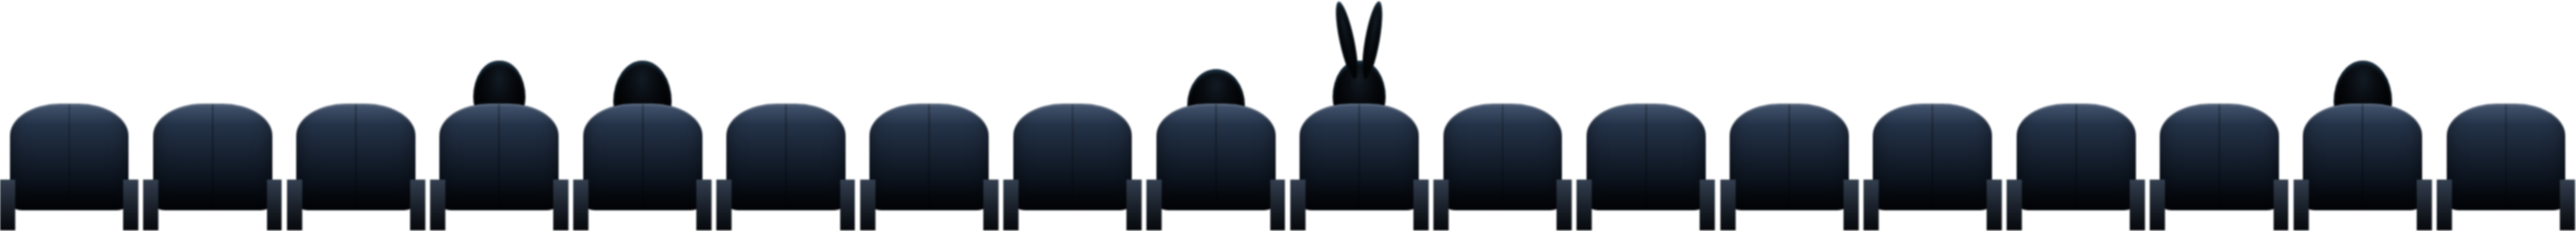
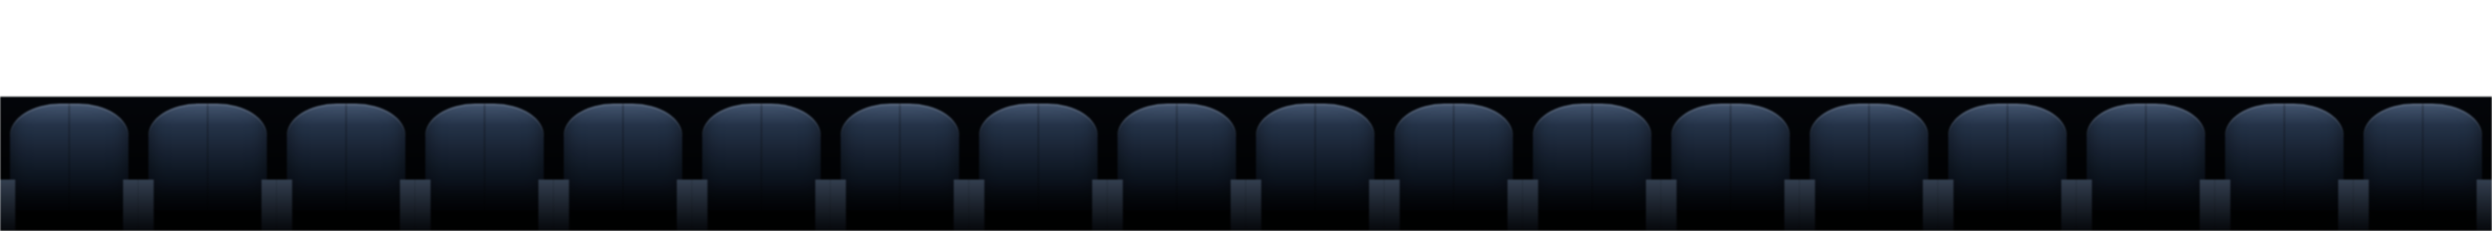
Refine Seat Lab aisle walk: solid rows, max three, gentler motion
Removes the audience, fills gaps so no screen shows through a row,
limits the walk to three visible rows that slide off instead of fading,
eases scroll and pointer motion, and adds Walk/Look tuning sliders.

Claude-Session: https://claude.ai/code/session_01GDgtUCjcDkxRjskmjmJ3ca

Changed region(s): [[0.0, 0.0299, 1.0, 1.0]]

diff --git a/site/lab/seats/index.html b/site/lab/seats/index.html
@@ -106,6 +106,9 @@ permalink: /lab/seats/
   .tabs button[aria-pressed="true"] { background: var(--paper); color: var(--ink); border-color: var(--paper); }
   .toggle[aria-pressed="true"] { color: var(--accent); border-color: color-mix(in oklch, var(--accent) 60%, var(--rule)); }
   .tabs button:focus-visible, .toggle:focus-visible { outline: 2px solid var(--accent); outline-offset: 2px; }
+  .slider { display: flex; align-items: center; gap: 8px; color: var(--muted); text-transform: uppercase; white-space: nowrap; }
+  .slider input { width: 88px; accent-color: var(--accent); }
+  .slider output { min-width: 5.2em; font-variant-numeric: tabular-nums; color: var(--paper); text-transform: none; }
   .readout { color: var(--muted); min-width: 4.5em; text-align: right; font-variant-numeric: tabular-nums; white-space: nowrap; }
 
   /* ---------- room lights (version B) ---------- */
@@ -180,10 +183,19 @@ permalink: /lab/seats/
     top: 0;
     display: flex;
     align-items: flex-end;
-    gap: calc(var(--sw) * 0.035);
+    gap: 0;
     font-size: calc(var(--sw) / 10);
     transform-origin: 50% 100%;
-    will-change: transform, opacity;
+    will-change: transform;
+  }
+  /* Solid backing under the seat bases and aisles, so the screen never shows
+     through a row. */
+  .row::before {
+    content: "";
+    position: absolute;
+    inset: 42% 0 0 0;
+    z-index: -1;
+    background: linear-gradient(180deg, oklch(12% 0.012 258), oklch(6% 0.005 250));
   }
   .seat { position: relative; display: block; flex: none; width: var(--sw); height: calc(var(--sw) * 0.92); isolation: isolate; }
   .seat::before {
@@ -209,33 +221,6 @@ permalink: /lab/seats/
       linear-gradient(180deg, oklch(38% 0.035 258), oklch(14% 0.01 258)) left bottom / 11% 100% no-repeat,
       linear-gradient(180deg, oklch(38% 0.035 258), oklch(14% 0.01 258)) right bottom / 11% 100% no-repeat;
   }
-  .head {
-    position: absolute;
-    z-index: 0;
-    left: 31%;
-    top: -34%;
-    width: 38%;
-    height: 52%;
-    border-radius: 48% 48% 42% 42% / 55% 55% 45% 45%;
-    background: radial-gradient(ellipse at 50% 28%, oklch(22% 0.02 250), oklch(8% 0.005 250) 72%);
-    box-shadow: inset 0 0.18em 0.25em oklch(70% 0.1 240 / 0.3);
-  }
-  .seat:nth-child(3n) .head { top: -27%; height: 46%; left: 33%; width: 35%; }
-  .seat:nth-child(4n+1) .head { border-radius: 50% 50% 38% 38% / 62% 62% 38% 38%; width: 42%; left: 29%; }
-  /* Mr. Rabbit has a ticket too. */
-  .head.rabbit::before, .head.rabbit::after {
-    content: "";
-    position: absolute;
-    bottom: 70%;
-    width: 28%;
-    height: 120%;
-    border-radius: 50%;
-    background: inherit;
-    box-shadow: inherit;
-  }
-  .head.rabbit::before { left: 12%; transform: rotate(-12deg); }
-  .head.rabbit::after { right: 12%; transform: rotate(10deg); }
-  .no-heads .head { display: none; }
   .aisle { position: relative; flex: none; width: calc(var(--sw) * 0.6); height: calc(var(--sw) * 0.92); }
   .aisle i {
     position: absolute;
@@ -300,8 +285,8 @@ permalink: /lab/seats/
     <button type="button" id="tab-d" data-v="d" aria-pressed="false">D · Stack</button>
     <button type="button" id="tab-e" data-v="e" aria-pressed="false">E · Image rows</button>
   </div>
-  <button type="button" class="toggle" id="t-heads" aria-pressed="true">Audience</button>
-  <button type="button" class="toggle" id="t-look" aria-pressed="true">Look around</button>
+  <label class="slider" for="s-walk">Walk <input type="range" id="s-walk" min="0.5" max="3" step="0.25" value="1.5"><output id="o-walk">1.5 rows</output></label>
+  <label class="slider" for="s-look">Look <input type="range" id="s-look" min="0" max="100" step="5" value="20"><output id="o-look">20%</output></label>
   <button type="button" class="toggle" id="t-motion" aria-pressed="true">Motion</button>
   <span class="readout" id="readout" aria-live="off">0%</span>
 </header>
@@ -391,9 +376,9 @@ permalink: /lab/seats/
   var NOTES = {
     a: {
       title: 'A · Aisle walk',
-      desc: 'Eleven rows of CSS seats placed in real perspective. The whole page is one walk: as you scroll, the camera moves forward and down the raked floor. Rows you pass grow, slide under the bottom edge and fade out, and new rows keep appearing in front. Orange step lights mark the aisles.',
-      pros: ['The strongest feeling of moving through the auditorium.', 'Plain transforms and opacity, so it runs in every browser, including Safari and Firefox.', 'Rows are drawn in CSS: no image to load, sharp at any size, easy to recolour per edition.'],
-      cons: ['Distant rows always cover a strip at the bottom of the screen; needs tuning so no text sits there.', 'About 400 small elements; fine on laptops, worth a check on old phones.', 'Page length changes the walking speed.'],
+      desc: 'Solid rows of empty seats in real perspective, never more than three at a time. As you scroll, you walk slowly down the raked floor: the nearest row grows and slides out under the bottom edge, and the next row rises into place from behind. Movement is eased, so the room glides after your scroll instead of snapping. Orange step lights mark the aisles. Tune it with Walk (rows travelled over the whole page) and Look (how much the room follows the pointer).',
+      pros: ['The strongest feeling of moving through the auditorium, now calm enough to read over.', 'Transforms only, so it runs in every browser, including Safari and Firefox.', 'Rows are drawn in CSS: no image to load, sharp at any size, easy to recolour per edition.'],
+      cons: ['Page length changes the walking speed; long pages walk slower at the same setting.', 'Rows cover roughly the bottom fifth of the viewport, so the lowest text of each screen sits behind them until scrolled.', 'About 200 small elements; fine on laptops, worth a check on old phones.'],
       effort: 'Medium: one JS module plus CSS, replaces cinema-seats.png.',
       best: 'Homepage and festival edition pages.'
     },
@@ -433,8 +418,8 @@ permalink: /lab/seats/
 
   var V = 'a';
   var W = 0, H = 0, barH = 52, bottomPx = 100, sw = 100;
-  var mx = 0;
-  var look = true, heads = true;
+  var mx = 0, mxT = 0, ps = 0;
+  var walkRows = 1.5, lookK = 0.2;
   var reduce = window.matchMedia('(prefers-reduced-motion: reduce)');
   var motion = !reduce.matches;
   var rows = [], stack = [], imgs = [];
@@ -442,16 +427,13 @@ permalink: /lab/seats/
 
   function clamp(v, a, b) { return Math.min(b, Math.max(a, v)); }
   function ease(t) { return t < 0.5 ? 2 * t * t : 1 - Math.pow(-2 * t + 2, 2) / 2; }
-  function occupied(i, j) { return ((i * 131 + j * 71) ^ (i * j * 17)) % 11 < 3; }
-
-  function buildRow(n, aisles, i, rabbitAt) {
+  function buildRow(n, aisles) {
     var el = document.createElement('div');
     el.className = 'row';
     var html = '';
     for (var j = 0; j < n; j++) {
       if (aisles.indexOf(j) !== -1) html += '<span class="aisle"><i></i></span>';
-      var occ = occupied(i, j) || j === rabbitAt;
-      html += '<span class="seat">' + (occ ? '<i class="head' + (j === rabbitAt ? ' rabbit' : '') + '"></i>' : '') + '</span>';
+      html += '<span class="seat"></span>';
     }
     el.innerHTML = html;
     return el;
@@ -477,8 +459,8 @@ permalink: /lab/seats/
 
     rowsWrap.textContent = '';
     rows = [];
-    for (var i = 0; i < 11; i++) {
-      var el = buildRow(34, [10, 24], i, i === 2 ? 15 : -1);
+    for (var i = 0; i < 8; i++) {
+      var el = buildRow(34, [10, 24]);
       rowsWrap.appendChild(el);
       rows.push({ el: el });
     }
@@ -486,8 +468,8 @@ permalink: /lab/seats/
 
     stackWrap.textContent = '';
     stack = [];
-    [[18, 9], [13, -1], [9, 4]].forEach(function (cfg, k) {
-      var el = buildRow(cfg[0], [], k + 20, cfg[1]);
+    [18, 13, 9].forEach(function (n) {
+      var el = buildRow(n, []);
       stackWrap.appendChild(el);
       stack.push({ el: el });
     });
@@ -516,17 +498,19 @@ permalink: /lab/seats/
 
   // Rows sit on a raked floor. d is the distance (in rows) ahead of the viewer;
   // a simple pinhole projection turns it into scale and screen position.
+  // At most three rows are on screen. A passing row slides fully below the
+  // bottom edge (no fading), and the third row rises out from behind the
+  // second one instead of popping in.
   function walk(k, lit) {
     var P = 1.2 * H, D = 0.8 * H, drop = 0.133 * H, eye = 0.5 * H, hz = 0.6 * H;
     rows.forEach(function (r, i) {
       var d = i - k;
-      if (d < -0.6 || d > 5.5) { place(r, 0, 0, 1, 0, 1, 0); return; }
+      if (d <= -0.95 || d >= 3) { place(r, 0, 0, 1, 0, 1, 0); return; }
       var s = P / (P + D * d);
-      var y = hz + (eye + drop * d) * s;
-      var op = d < 0 ? (d + 0.6) / 0.6 : (d > 4.5 ? 5.5 - d : 1);
-      var br = (0.48 + 0.11 * Math.min(d, 5)) * lit;
-      var cx = W / 2 - mx * 0.07 * W * s;
-      place(r, cx, y, s, op, br, 1000 - Math.round(d * 100));
+      var y = hz + (eye + drop * d) * s + clamp(d - 2, 0, 1) * r.h * s;
+      var br = (0.5 + 0.1 * Math.max(0, d)) * lit;
+      var cx = W / 2 - mx * 0.07 * lookK * W * s;
+      place(r, cx, y, s, 1, br, 1000 - Math.round(d * 100));
     });
   }
 
@@ -542,11 +526,21 @@ permalink: /lab/seats/
     ticking = false;
     var y = window.scrollY;
     var max = Math.max(1, doc.scrollHeight - H);
-    var p = motion ? clamp(y / max, 0, 1) : 0;
+    var target = motion ? clamp(y / max, 0, 1) : 0;
     readout.textContent = Math.round(clamp(y / max, 0, 1) * 100) + '%';
 
+    // Ease toward the scroll and pointer targets so the room glides.
+    var targetMx = motion ? mxT * lookK : 0;
+    ps += (target - ps) * 0.09;
+    mx += (targetMx - mx) * 0.06;
+    if (Math.abs(target - ps) < 0.0004) ps = target;
+    if (Math.abs(targetMx - mx) < 0.0005) mx = targetMx;
+    if (ps !== target || mx !== targetMx) request();
+    var p = ps;
+    doc.style.setProperty('--mx', mx.toFixed(4));
+
     if (V === 'a') {
-      walk(p * 4, 1);
+      walk(p * walkRows, 1);
     } else if (V === 'b') {
       var I = 0.9 * H;
       var q = motion ? clamp(y / I, 0, 1) : 1;
@@ -565,21 +559,21 @@ permalink: /lab/seats/
       }
       doc.style.setProperty('--frame-op', e.toFixed(3));
       room.style.opacity = (1 - e).toFixed(3);
-      walk(e * 3, 1 - 0.5 * e);
+      walk(e * 2, 1 - 0.5 * e);
     } else if (V === 'c') {
       doc.style.setProperty('--fy', (motion ? y * 0.5 : 0).toFixed(1) + 'px');
     } else if (V === 'd') {
       var f = stack[2], m = stack[1], b = stack[0];
       var h = f.h;
-      place(b, W / 2 - mx * 0.015 * W, H - 0.62 * h + p * 0.1 * h, 0.5 + 0.08 * p, 1, 0.85, 1);
-      place(m, W / 2 + sw * 0.3 - mx * 0.03 * W, H - 0.34 * h + p * 0.28 * h, 0.7 + 0.16 * p, 1, 0.62, 2);
-      place(f, W / 2 - mx * 0.055 * W, H + 0.38 * h + p * 0.45 * h, 1 + 0.3 * p, 1, 0.45, 3);
+      place(b, W / 2 - mx * 0.02 * W, H - 0.62 * h + p * 0.1 * h, 0.5 + 0.08 * p, 1, 0.85, 1);
+      place(m, W / 2 + sw * 0.3 - mx * 0.045 * W, H - 0.34 * h + p * 0.28 * h, 0.7 + 0.16 * p, 1, 0.62, 2);
+      place(f, W / 2 - mx * 0.08 * W, H + 0.38 * h + p * 0.45 * h, 1 + 0.3 * p, 1, 0.45, 3);
     } else if (V === 'e') {
       var ib = imgs[0], im = imgs[1], fr = imgs[2];
       var hh = fr.h, t = ease(p);
-      place(ib, W / 2 - mx * 0.015 * W, H - 0.45 * hh + t * 0.25 * hh, 0.52 + 0.2 * t, 1, 1, 1);
+      place(ib, W / 2 - mx * 0.02 * W, H - 0.45 * hh + t * 0.25 * hh, 0.52 + 0.2 * t, 1, 1, 1);
       place(im, W / 2 + sw * 0.3 * (1 - t) - mx * (0.03 + 0.025 * t) * W, H - 0.2 * hh + t * 0.5 * hh, 0.72 + 0.28 * t, 1, 1, 2);
-      place(fr, W / 2 - mx * 0.055 * W, H + 0.3 * hh + t * 0.8 * hh, 1 + 0.5 * t, 1 - clamp((t - 0.75) / 0.25, 0, 1), 1, 3);
+      place(fr, W / 2 - mx * 0.08 * W, H + 0.3 * hh + t * 0.8 * hh, 1 + 0.5 * t, 1 - clamp((t - 0.75) / 0.25, 0, 1), 1, 3);
     }
   }
 
@@ -625,8 +619,17 @@ permalink: /lab/seats/
   document.querySelectorAll('.tabs button').forEach(function (b) {
     b.addEventListener('click', function () { setVersion(b.dataset.v); });
   });
-  toggle('t-heads', function () { return heads; }, function (v) { heads = v; body.classList.toggle('no-heads', !v); });
-  toggle('t-look', function () { return look; }, function (v) { look = v; if (!v) { mx = 0; doc.style.setProperty('--mx', '0'); } });
+  var walkIn = document.getElementById('s-walk'), lookIn = document.getElementById('s-look');
+  walkIn.addEventListener('input', function () {
+    walkRows = parseFloat(walkIn.value);
+    document.getElementById('o-walk').textContent = walkRows + (walkRows === 1 ? ' row' : ' rows');
+    request();
+  });
+  lookIn.addEventListener('input', function () {
+    lookK = parseInt(lookIn.value, 10) / 100;
+    document.getElementById('o-look').textContent = lookIn.value + '%';
+    request();
+  });
   toggle('t-motion', function () { return motion; }, function (v) { motion = v; });
 
   window.addEventListener('keydown', function (e) {
@@ -634,9 +637,8 @@ permalink: /lab/seats/
     if (map[e.key] && !e.metaKey && !e.ctrlKey && !e.altKey) setVersion(map[e.key]);
   });
   window.addEventListener('pointermove', function (e) {
-    if (!look || e.pointerType !== 'mouse' || !motion) return;
-    mx = clamp((e.clientX / W) * 2 - 1, -1, 1);
-    doc.style.setProperty('--mx', mx.toFixed(3));
+    if (e.pointerType !== 'mouse') return;
+    mxT = clamp((e.clientX / W) * 2 - 1, -1, 1);
     request();
   }, { passive: true });
   window.addEventListener('scroll', request, { passive: true });

diff --git a/scripts/seat-rows/render.html b/scripts/seat-rows/render.html
@@ -51,10 +51,19 @@
     top: 0;
     display: flex;
     align-items: flex-end;
-    gap: calc(var(--sw) * 0.035);
+    gap: 0;
     font-size: calc(var(--sw) / 10);
     transform-origin: 50% 100%;
-    will-change: transform, opacity;
+    will-change: transform;
+  }
+  /* Solid backing under the seat bases and aisles, so the screen never shows
+     through a row. */
+  .row::before {
+    content: "";
+    position: absolute;
+    inset: 42% 0 0 0;
+    z-index: -1;
+    background: linear-gradient(180deg, oklch(12% 0.012 258), oklch(6% 0.005 250));
   }
   .seat { position: relative; display: block; flex: none; width: var(--sw); height: calc(var(--sw) * 0.92); isolation: isolate; }
   .seat::before {
@@ -80,33 +89,6 @@
       linear-gradient(180deg, oklch(38% 0.035 258), oklch(14% 0.01 258)) left bottom / 11% 100% no-repeat,
       linear-gradient(180deg, oklch(38% 0.035 258), oklch(14% 0.01 258)) right bottom / 11% 100% no-repeat;
   }
-  .head {
-    position: absolute;
-    z-index: 0;
-    left: 31%;
-    top: -34%;
-    width: 38%;
-    height: 52%;
-    border-radius: 48% 48% 42% 42% / 55% 55% 45% 45%;
-    background: radial-gradient(ellipse at 50% 28%, oklch(22% 0.02 250), oklch(8% 0.005 250) 72%);
-    box-shadow: inset 0 0.18em 0.25em oklch(70% 0.1 240 / 0.3);
-  }
-  .seat:nth-child(3n) .head { top: -27%; height: 46%; left: 33%; width: 35%; }
-  .seat:nth-child(4n+1) .head { border-radius: 50% 50% 38% 38% / 62% 62% 38% 38%; width: 42%; left: 29%; }
-  /* Mr. Rabbit has a ticket too. */
-  .head.rabbit::before, .head.rabbit::after {
-    content: "";
-    position: absolute;
-    bottom: 70%;
-    width: 28%;
-    height: 120%;
-    border-radius: 50%;
-    background: inherit;
-    box-shadow: inherit;
-  }
-  .head.rabbit::before { left: 12%; transform: rotate(-12deg); }
-  .head.rabbit::after { right: 12%; transform: rotate(10deg); }
-  .no-heads .head { display: none; }
   .aisle { position: relative; flex: none; width: calc(var(--sw) * 0.6); height: calc(var(--sw) * 0.92); }
   .aisle i {
     position: absolute;
@@ -125,7 +107,7 @@ html,body{background:transparent!important;margin:0}
 .row{position:relative;display:inline-flex;width:max-content;transform:none;will-change:auto;padding-top:calc(var(--sw)*0.75)}
 body::before{display:none}
 </style></head><body><div id=w></div><script>
-function occ(i,j){return ((i*131+j*71)^(i*j*17))%11<3}
+function occ(i,j){return false}
 window.make=function(n,i,rab,sw){var h='';for(var j=0;j<n;j++){var o=occ(i,j)||j===rab;h+='<span class="seat">'+(o?'<i class="head'+(j===rab?' rabbit':'')+'"></i>':'')+'</span>'}
 var w=document.getElementById('w');w.innerHTML='<div class=row id=r style="--sw:'+sw+'px">'+h+'</div>';}
 </script></body></html>

diff --git a/HANDOFF-SEAT-LAB.md b/HANDOFF-SEAT-LAB.md
@@ -16,12 +16,16 @@ Owner wants the site to feel like sitting in a cinema: the screen in the middle,
 - `scripts/seat-rows/` — renderer for the E images (Playwright; see header of `render.js`).
 - Published preview (owner's private artifact): https://claude.ai/artifact/Sptff4DHa3bEcM5sBWaZNV
 
+## Owner feedback, round 2 (2026-09-28): A chosen, refined
+- Likes **A Aisle walk**. Requirements applied: no audience (heads removed everywhere, E images re-rendered empty), seats fully solid (no gaps between seats, dark backing under bases/aisles, passing rows slide off the bottom instead of fading), **max 3 rows on screen** (third row rises from behind the second), gentler motion.
+- Motion is now eased (scroll progress lerp 0.09/frame, pointer lerp 0.06/frame). Defaults: Walk = 1.5 rows across the whole page, Look = 20% of the original pointer strength. Both are sliders in the lab bar so the owner can tune; carry the chosen values into production.
+
 ## Verified
 - Jekyll build passes locally with the lab page (needs `LANG=C.UTF-8` in a bare container, otherwise SCSS fails on UTF-8).
 - Headless Chromium screenshots of all five versions at 0/20/60% scroll: no JS errors, all render.
 - Not verified: Safari/Firefox, real phones, soft navigation interaction (the lab is outside the shared shell).
 
 ## Next steps
-1. Owner picks a version (suggested: D or E site-wide, B only on the homepage).
+1. Owner confirms final Walk / Look values for A (defaults 1.5 rows / 20%).
 2. Port into `site/_layouts/default.html`: replace the `<img class="cinema-seats">` with the rows container, move the chosen CSS into `cinema-frame.css` (use tokens), move the engine into `main.js`, keep `prefers-reduced-motion` and the soft-navigation contract (seats stay mounted; recompute on `bff:navigated`/route swap).
 3. Tune overlap so the rows never cover text: in A the far rows converge at ~0.8 of viewport height; D/E cover ~130 px at 1280×800.

diff --git a/CHANGELOG.md b/CHANGELOG.md
@@ -6,6 +6,7 @@ Short, human-readable record of public website changes. One dated entry is requi
 
 - Added a hidden, noindexed prototype page at `/lab/seats/` with five switchable seat effects: aisle walk, take your seat, raked floor, parallax stack and image rows.
 - Added three transparent seat-row images for the image-rows version and the script that renders them.
+- Refined the chosen aisle walk: solid rows without audience, at most three rows on screen, eased scroll and pointer motion, and Walk/Look sliders for tuning.
 - The live site's shared seats are unchanged; the lab exists to pick a version before it replaces `cinema-seats.png`.
 
 ## 2026-09-26 — Add official web-sourced film visual assets batch 1
